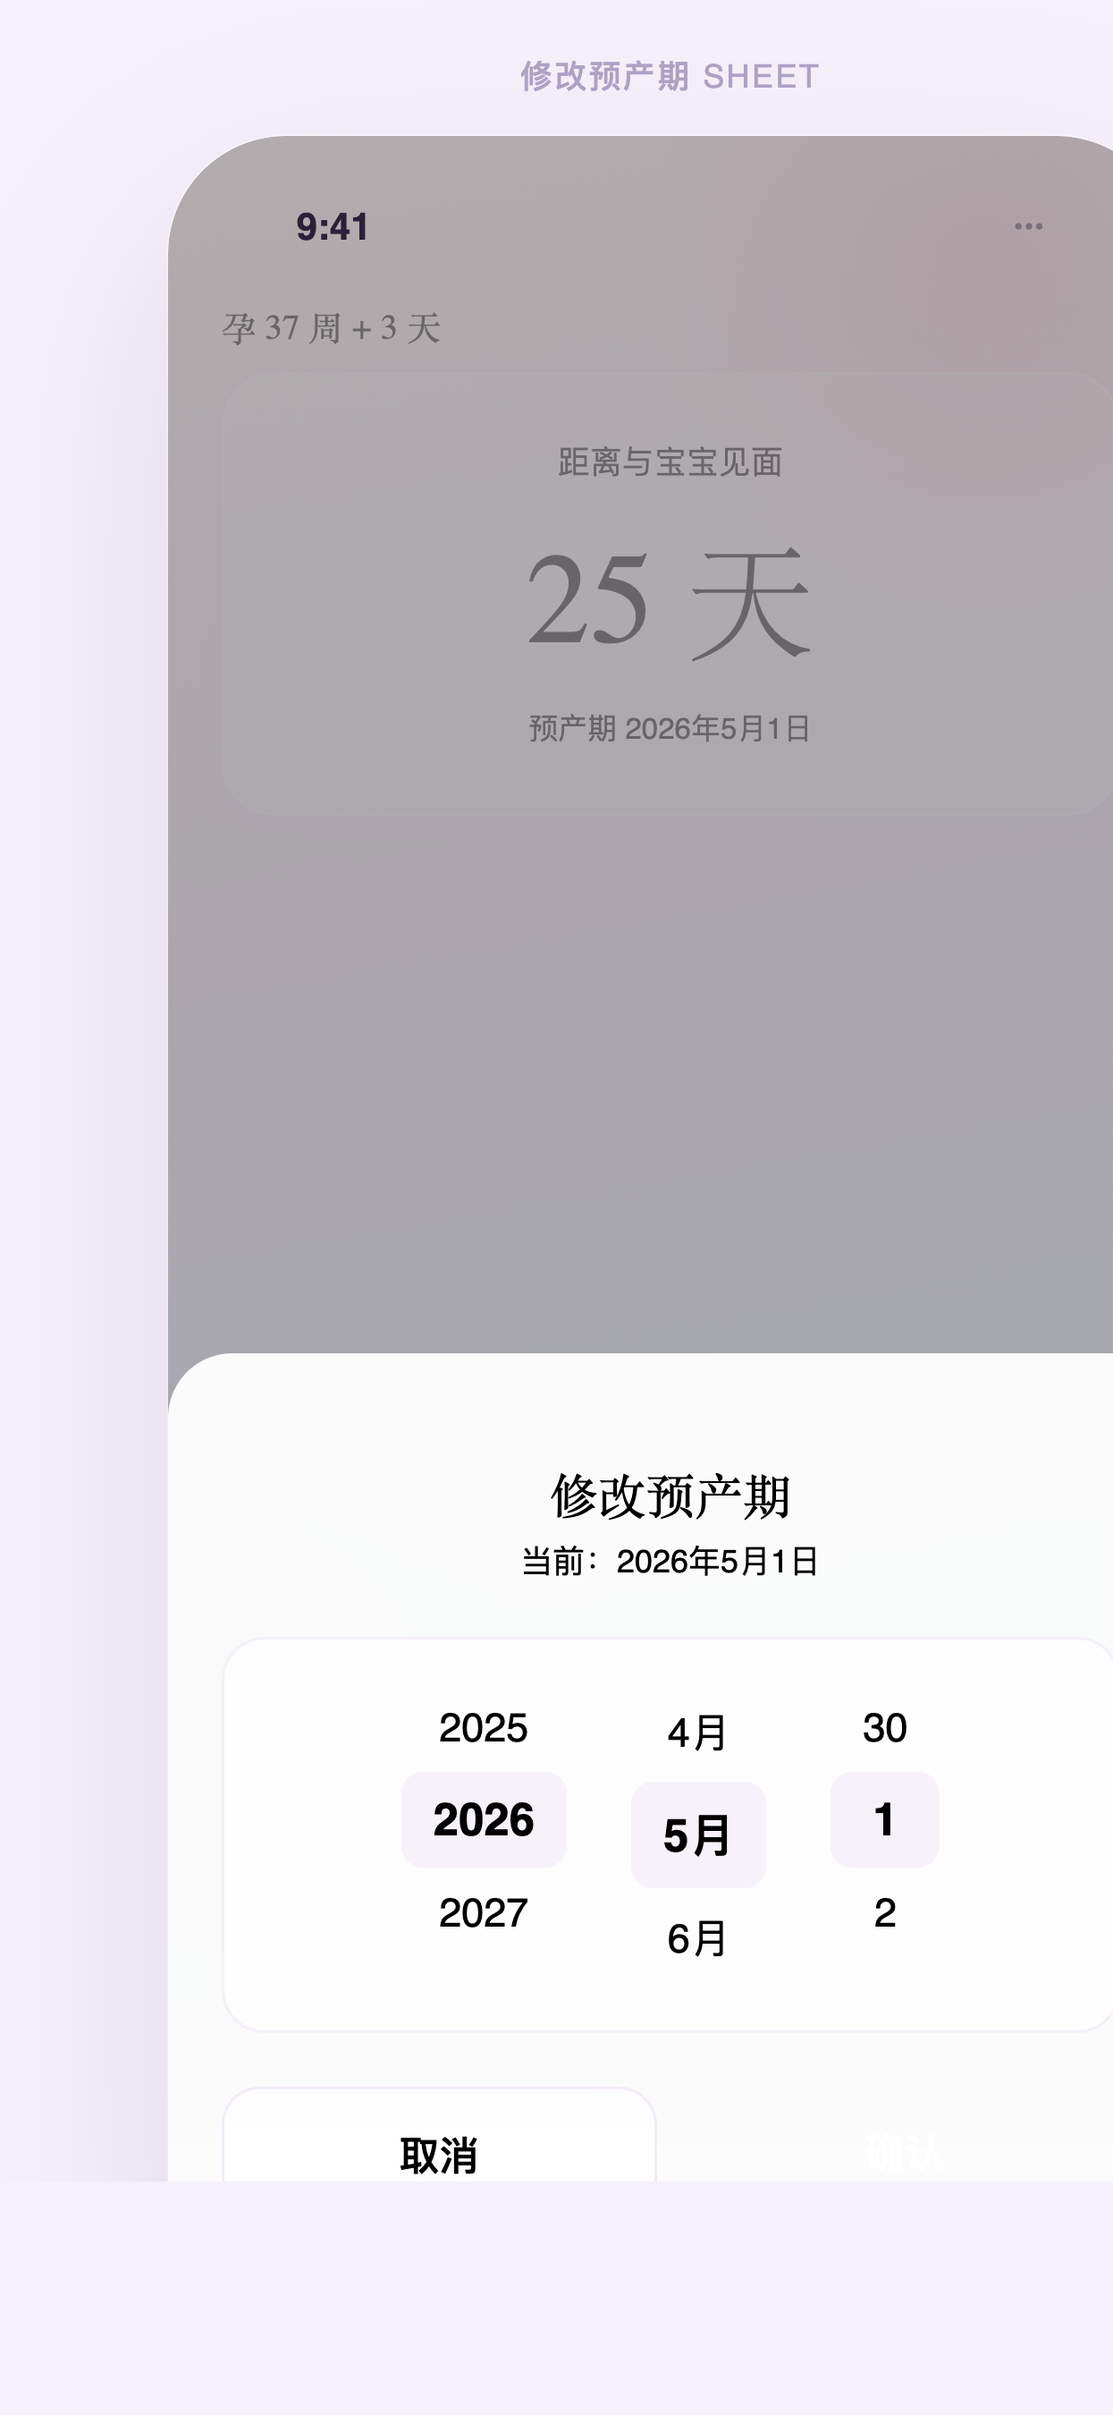
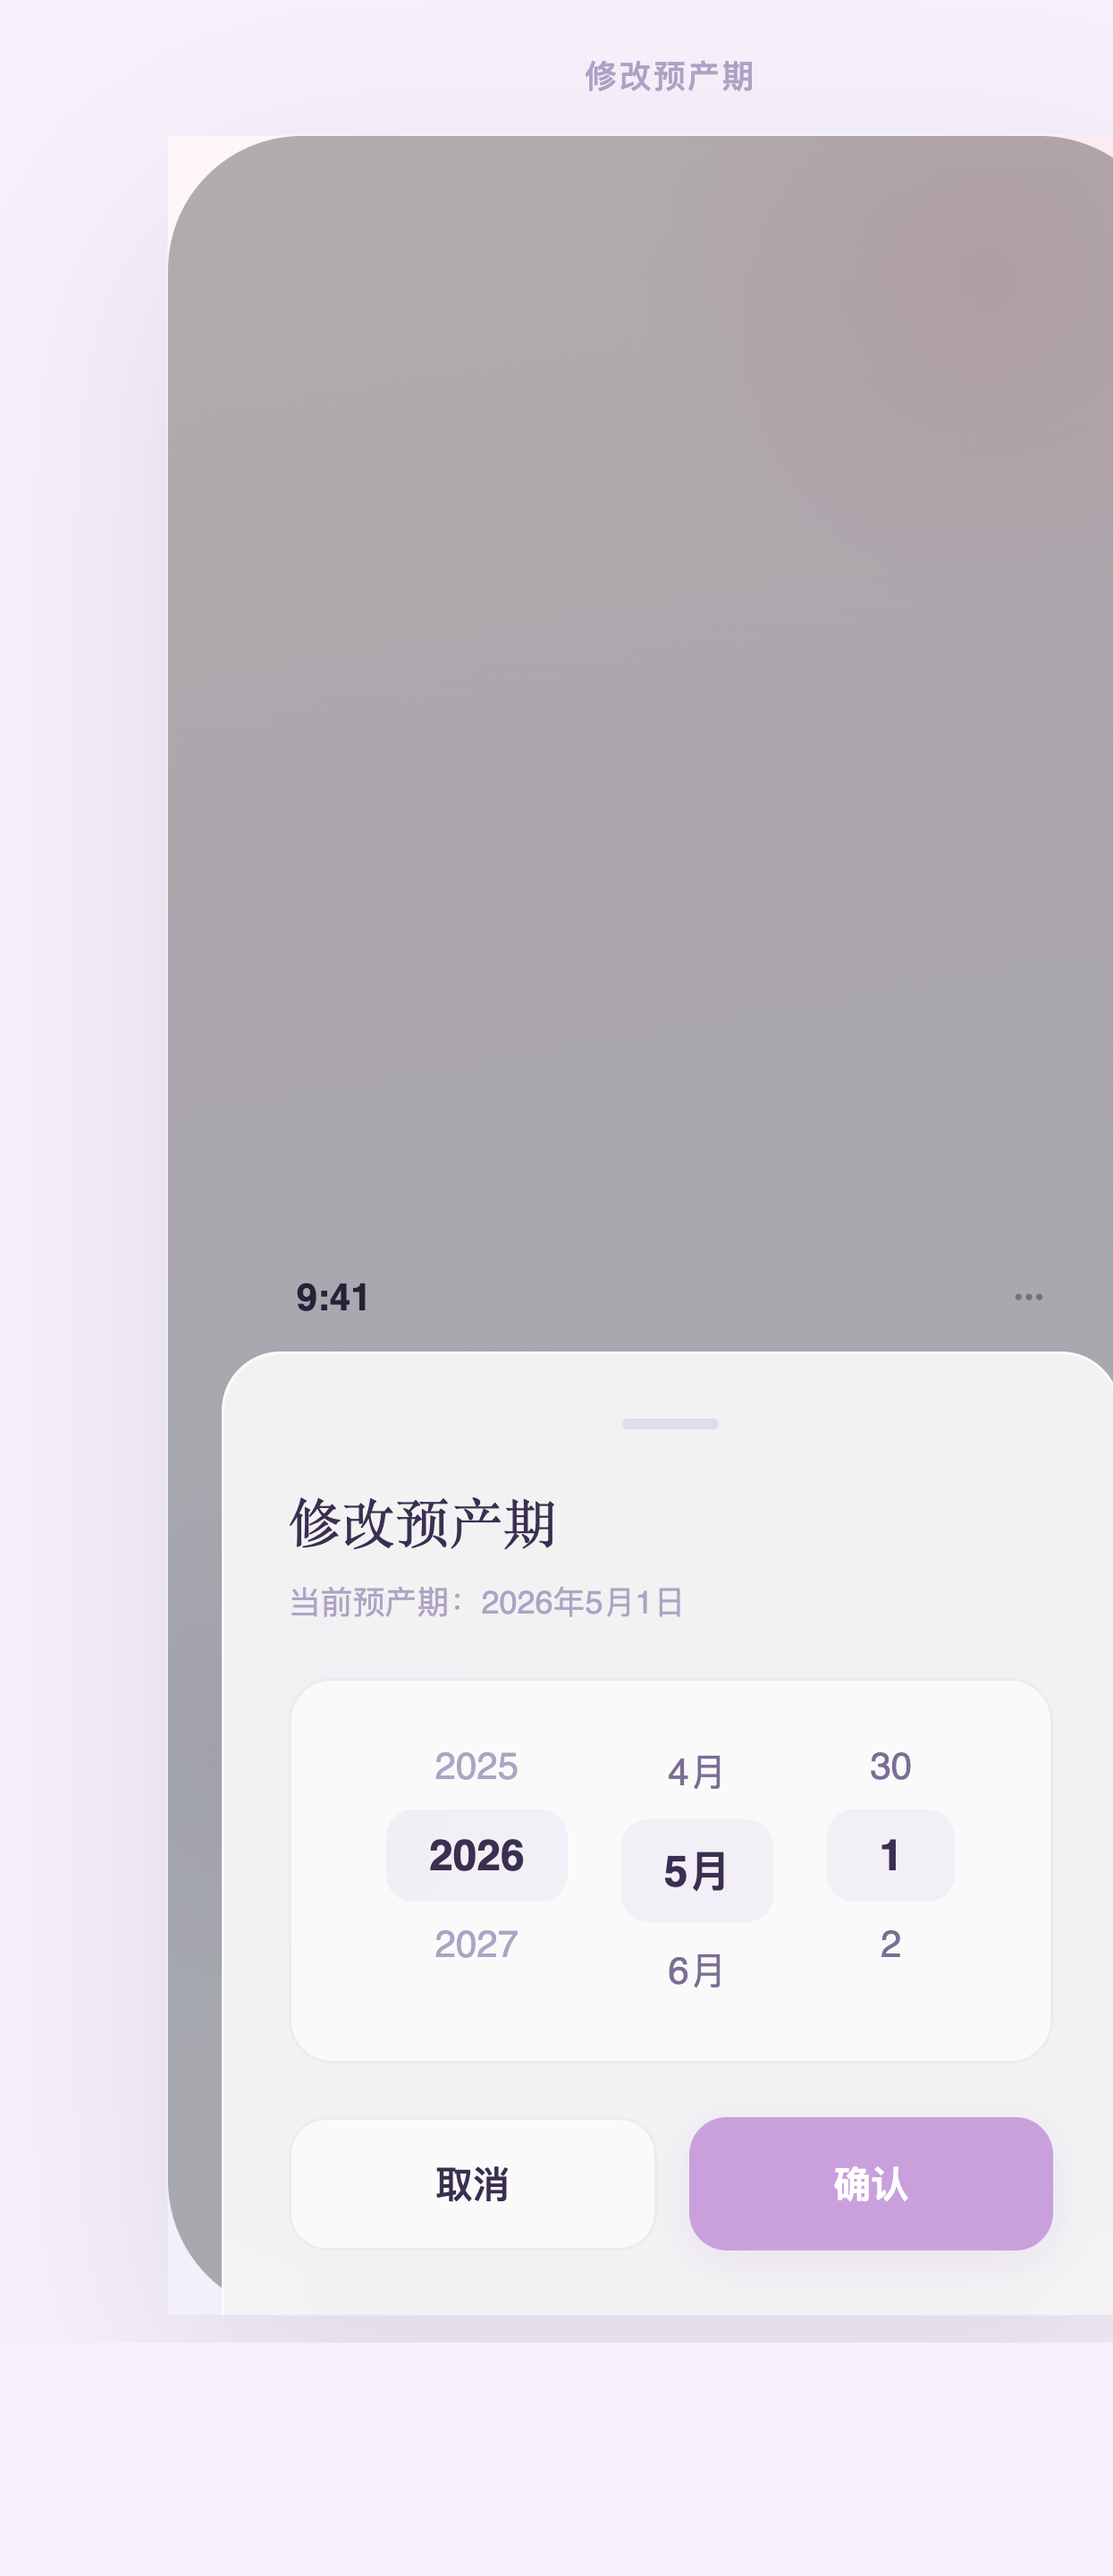
fix: 修改预产期 design 统一设计语言
- 复用添加物品弹窗样式（rgba/blur/border 参数一致）
- PRD 设计参数对齐
- 截图更新

diff --git a/design-v2/design.html b/design-v2/design.html
@@ -871,49 +871,44 @@
   </div>
 </div>
 
-
-<!-- EDIT-DUEDATE 修改预产期 Sheet -->
+<!-- EDIT-DUEDATE 修改预产期 -->
 <div class="wrap">
-  <div class="label">修改预产期 Sheet</div>
+  <div class="label">修改预产期</div>
   <div class="phone">
-    <div class="home" style="overflow:hidden;">
+    <div class="home" style="justify-content:flex-end;">
       <div class="sb" style="color:var(--text-dark);"><span>9:41</span><span style="opacity:0.4;">···</span></div>
-      <div style="opacity:0.4;margin-top:8px;">
-        <div style="font-family:'Noto Serif SC',serif;font-size:13px;color:var(--n500);">孕 37 周 + 3 天</div>
-        <div class="tc" style="padding:24px;margin-top:8px;text-align:center;">
-          <div style="font-size:12px;color:var(--n500);">距离与宝宝见面</div>
-          <div style="font-family:'Noto Serif SC',serif;font-size:48px;font-weight:300;color:var(--n900);margin:8px 0;">25 天</div>
-          <div style="font-size:11px;color:var(--n300);">预产期 2026年5月1日</div>
-        </div>
-      </div>
-    </div>
-    <div style="position:absolute;bottom:0;left:0;right:0;top:0;background:rgba(0,0,0,0.3);border-radius:44px;"></div>
-    <div style="position:absolute;bottom:0;left:0;right:0;background:rgba(255,255,255,0.95);backdrop-filter:blur(20px);border-radius:24px 24px 0 0;padding:20px 20px 34px;">
-      <div style="width:36px;height:4px;background:var(--n300);border-radius:2px;margin:0 auto 16px;"></div>
-      <div style="font-family:'Noto Serif SC',serif;font-size:18px;color:var(--n900);text-align:center;margin-bottom:4px;">修改预产期</div>
-      <div style="font-size:12px;color:var(--n500);text-align:center;margin-bottom:20px;">当前：2026年5月1日</div>
-      <div style="background:rgba(255,255,255,0.6);border-radius:16px;padding:16px;margin-bottom:20px;border:1px solid rgba(201,160,220,0.15);">
-        <div style="display:flex;justify-content:center;gap:24px;">
-          <div style="text-align:center;">
-            <div style="font-family:'Nunito',sans-serif;font-size:15px;color:var(--n300);padding:8px 12px;">2025</div>
-            <div style="font-family:'Nunito',sans-serif;font-size:17px;color:var(--n900);font-weight:600;background:rgba(201,160,220,0.12);border-radius:8px;padding:8px 12px;">2026</div>
-            <div style="font-family:'Nunito',sans-serif;font-size:15px;color:var(--n300);padding:8px 12px;">2027</div>
-          </div>
-          <div style="text-align:center;">
-            <div style="font-family:'Nunito',sans-serif;font-size:15px;color:var(--n500);padding:8px 12px;">4月</div>
-            <div style="font-family:'Nunito',sans-serif;font-size:17px;color:var(--n900);font-weight:600;background:rgba(201,160,220,0.12);border-radius:8px;padding:8px 12px;">5月</div>
-            <div style="font-family:'Nunito',sans-serif;font-size:15px;color:var(--n500);padding:8px 12px;">6月</div>
-          </div>
-          <div style="text-align:center;">
-            <div style="font-family:'Nunito',sans-serif;font-size:15px;color:var(--n500);padding:8px 12px;">30</div>
-            <div style="font-family:'Nunito',sans-serif;font-size:17px;color:var(--n900);font-weight:600;background:rgba(201,160,220,0.12);border-radius:8px;padding:8px 12px;">1</div>
-            <div style="font-family:'Nunito',sans-serif;font-size:15px;color:var(--n500);padding:8px 12px;">2</div>
+      <!-- 半透明遮罩 -->
+      <div style="position:absolute;inset:0;background:rgba(0,0,0,0.3);border-radius:50px;z-index:1;"></div>
+      <!-- 底部弹窗卡片 -->
+      <div style="position:relative;z-index:2;background:rgba(255,255,255,0.85);backdrop-filter:blur(24px);border-radius:22px 22px 0 0;padding:24px;border:1px solid rgba(255,255,255,0.7);border-bottom:none;">
+        <div style="width:36px;height:4px;border-radius:2px;background:rgba(183,168,214,0.3);margin:0 auto 20px;"></div>
+        <div style="font-family:'Noto Serif SC',serif;font-size:20px;color:var(--text-dark);font-weight:400;margin-bottom:8px;">修改预产期</div>
+        <div style="font-size:12px;color:var(--text-light);margin-bottom:20px;">当前预产期：2026年5月1日</div>
+        <!-- 日期选择器 -->
+        <div style="background:rgba(255,255,255,0.6);border:1px solid rgba(183,168,214,0.2);border-radius:16px;padding:16px;margin-bottom:20px;">
+          <div style="display:flex;justify-content:center;gap:20px;">
+            <div style="text-align:center;">
+              <div style="font-size:14px;color:var(--text-light);padding:8px 16px;">2025</div>
+              <div style="font-size:16px;color:var(--text-dark);font-weight:600;padding:8px 16px;background:rgba(183,168,214,0.12);border-radius:10px;">2026</div>
+              <div style="font-size:14px;color:var(--text-light);padding:8px 16px;">2027</div>
+            </div>
+            <div style="text-align:center;">
+              <div style="font-size:14px;color:var(--text-mid);padding:8px 16px;">4月</div>
+              <div style="font-size:16px;color:var(--text-dark);font-weight:600;padding:8px 16px;background:rgba(183,168,214,0.12);border-radius:10px;">5月</div>
+              <div style="font-size:14px;color:var(--text-mid);padding:8px 16px;">6月</div>
+            </div>
+            <div style="text-align:center;">
+              <div style="font-size:14px;color:var(--text-mid);padding:8px 16px;">30</div>
+              <div style="font-size:16px;color:var(--text-dark);font-weight:600;padding:8px 16px;background:rgba(183,168,214,0.12);border-radius:10px;">1</div>
+              <div style="font-size:14px;color:var(--text-mid);padding:8px 16px;">2</div>
+            </div>
           </div>
         </div>
-      </div>
-      <div style="display:flex;gap:12px;">
-        <div style="flex:1;padding:14px;border-radius:14px;background:rgba(255,255,255,0.6);border:1px solid rgba(201,160,220,0.2);color:var(--n500);font-size:15px;font-weight:500;text-align:center;font-family:'Nunito',sans-serif;">取消</div>
-        <div style="flex:1;padding:14px;border-radius:14px;background:linear-gradient(135deg,var(--primary400),var(--primary600));color:white;font-size:15px;font-weight:600;text-align:center;font-family:'Nunito',sans-serif;">确认</div>
+        <!-- 按钮 -->
+        <div style="display:flex;gap:12px;">
+          <button style="flex:1;padding:14px;border-radius:14px;background:rgba(255,255,255,0.6);border:1px solid rgba(183,168,214,0.2);font-size:14px;font-weight:500;color:var(--text-dark);cursor:pointer;">取消</button>
+          <button style="flex:1;padding:14px;border-radius:14px;background:var(--accent);color:white;font-size:14px;font-weight:600;border:none;box-shadow:0 4px 16px rgba(196,160,220,0.2);cursor:pointer;">确认</button>
+        </div>
       </div>
     </div>
   </div>

diff --git a/BlossomUITests/BlossomUITests.swift b/BlossomUITests/BlossomUITests.swift
@@ -797,4 +797,160 @@ final class BlossomUITests: XCTestCase {
 
         snap("duedate-today-05-zero-countdown")
     }
+
+    // MARK: - Lamaze Practice Mode Screenshot
+    func testLamazePracticeScreenshot() throws {
+        app.launchArguments = ["-skip-onboarding"]
+        app.launch()
+        
+        let tasksTab = app.buttons["任务"]
+        XCTAssertTrue(tasksTab.waitForExistence(timeout: 10))
+        tasksTab.tap()
+        sleep(1)
+        
+        let lamazeText = app.staticTexts["拉玛泽呼吸练习"]
+        XCTAssertTrue(lamazeText.waitForExistence(timeout: 5))
+        lamazeText.tap()
+        sleep(1)
+        
+        let practiceMode = app.staticTexts["跟练模式"]
+        if practiceMode.waitForExistence(timeout: 3) {
+            practiceMode.tap()
+            sleep(1)
+        }
+        
+        let firstStage = app.staticTexts.matching(NSPredicate(format: "label CONTAINS[c] '清洁呼吸'")).firstMatch
+        if firstStage.waitForExistence(timeout: 3) {
+            firstStage.tap()
+            sleep(1)
+        }
+        
+        snap("lamaze-practice-prep")
+        
+        let startButton = app.buttons.matching(NSPredicate(format: "label CONTAINS[c] '开始练习'")).firstMatch
+        if startButton.waitForExistence(timeout: 3) {
+            startButton.tap()
+            sleep(2)
+        }
+        
+        snap("lamaze-practice-timer")
+    }
+
+
+    // MARK: - Hospital Bag Add Item Screenshot
+    func testBagAddItemScreenshot() throws {
+        app.launchArguments = ["-skip-onboarding"]
+        app.launch()
+        
+        let bagTab = app.buttons["待产包"]
+        XCTAssertTrue(bagTab.waitForExistence(timeout: 10))
+        bagTab.tap()
+        sleep(2)
+        
+        // Find the + button by its image
+        let plusButton = app.buttons.matching(NSPredicate(format: "label CONTAINS[c] 'plus' OR label CONTAINS[c] '+'")).firstMatch
+        if !plusButton.waitForExistence(timeout: 3) {
+            // Try finding by image
+            let allButtons = app.buttons.allElementsBoundByIndex
+            for button in allButtons {
+                if button.label.contains("plus") || button.label.contains("+") || button.label.contains("Add") {
+                    button.tap()
+                    break
+                }
+            }
+            // If still not found, try tapping by coordinate (top right area)
+            if !app.staticTexts["添加物品"].waitForExistence(timeout: 2) {
+                let topRight = app.coordinate(withNormalizedOffset: CGVector(dx: 0.9, dy: 0.12))
+                topRight.tap()
+            }
+        } else {
+            plusButton.tap()
+        }
+        sleep(2)
+        
+        snap("bag-add-item-sheet")
+    }
+
+
+    // MARK: - Lamaze Completion Screenshot
+    func testLamazeCompletionScreenshot() throws {
+        app.launchArguments = ["-skip-onboarding"]
+        app.launch()
+        
+        let tasksTab = app.buttons["任务"]
+        XCTAssertTrue(tasksTab.waitForExistence(timeout: 10))
+        tasksTab.tap()
+        sleep(1)
+        
+        let lamazeText = app.staticTexts["拉玛泽呼吸练习"]
+        XCTAssertTrue(lamazeText.waitForExistence(timeout: 5))
+        lamazeText.tap()
+        sleep(1)
+        
+        // Tap 跟练模式
+        let practiceMode = app.staticTexts["跟练模式"]
+        if practiceMode.waitForExistence(timeout: 3) {
+            practiceMode.tap()
+            sleep(1)
+        }
+        
+        // Tap first stage
+        let firstStage = app.staticTexts.matching(NSPredicate(format: "label CONTAINS[c] '清洁呼吸'")).firstMatch
+        if firstStage.waitForExistence(timeout: 3) {
+            firstStage.tap()
+            sleep(1)
+        }
+        
+        // Start practice
+        let startButton = app.buttons.matching(NSPredicate(format: "label CONTAINS[c] '开始练习'")).firstMatch
+        if startButton.waitForExistence(timeout: 3) {
+            startButton.tap()
+            // Wait for the breathing cycle to complete (inhale + exhale × cycles)
+            // Stage 1: 4s inhale + 6s exhale × cycles - wait longer
+            sleep(90)
+        }
+        
+        // Check if completion view appeared
+        let completionTitle = app.staticTexts["做得真棒"]
+        if completionTitle.waitForExistence(timeout: 10) {
+            snap("lamaze-completion")
+        } else {
+            snap("lamaze-completion-not-found")
+        }
+    }
+
+
+    // MARK: - Kegel Timer Color Verification
+    func testKegelTimerColorVerify() throws {
+        app.launchArguments = ["-skip-onboarding"]
+        app.launch()
+        
+        let tasksTab = app.buttons["任务"]
+        XCTAssertTrue(tasksTab.waitForExistence(timeout: 10))
+        tasksTab.tap()
+        sleep(1)
+        
+        let kegelText = app.staticTexts["凯格尔运动"]
+        XCTAssertTrue(kegelText.waitForExistence(timeout: 5))
+        kegelText.tap()
+        sleep(1)
+        
+        // Snap prep page first
+        snap("kegel-prep-backbtn")
+        
+        // Tap 开始练习
+        let startButton = app.buttons.matching(NSPredicate(format: "label CONTAINS[c] '开始练习'")).firstMatch
+        if startButton.waitForExistence(timeout: 3) {
+            startButton.tap()
+            sleep(2)
+        }
+        
+        // Now on timer page
+        snap("kegel-timer-color-verify")
+        
+        // Wait for relax phase
+        sleep(6)
+        snap("kegel-relax-color-verify")
+    }
+
 }

diff --git a/PRD-EDIT-DUEDATE.md b/PRD-EDIT-DUEDATE.md
@@ -39,25 +39,30 @@
 
 ### 5.1 布局（从上到下）
 
+复用"添加物品弹窗"（⑥-b）的设计语言：
+
 | 元素 | 规格 |
 |------|------|
-| 拖拽手柄 | 36x4px，圆角 2px，颜色 n300，居中 |
-| 标题 | "修改预产期"，Noto Serif SC 18px，颜色 n900，居中 |
-| 当前日期 | "当前：2026年5月1日"，Nunito 12px，颜色 n500，居中 |
-| 日期选择器 | 年/月/日 三列 wheel picker，毛玻璃卡片容器 |
+| 拖拽手柄 | 36x4px，圆角 2px，rgba(183,168,214,0.3)，居中 |
+| 标题 | "修改预产期"，Noto Serif SC 20px，font-weight 400，color text-dark |
+| 当前日期 | "当前预产期：2026年5月1日"，12px，color text-light |
+| 日期选择器 | 年/月/日 三列，容器 rgba(255,255,255,0.6) + 1px border rgba(183,168,214,0.2)，border-radius 16px |
+| 选中项 | 16px，font-weight 600，color text-dark，背景 rgba(183,168,214,0.12)，border-radius 10px |
+| 未选中项 | 14px，color text-mid 或 text-light |
 | 按钮区 | 左"取消" + 右"确认"，flex 等宽，gap 12px |
 
-### 5.2 按钮样式
+### 5.2 按钮样式（与结束确认弹窗一致）
 
 | 按钮 | 背景 | 文字 |
 |------|------|------|
-| 取消 | rgba(255,255,255,0.6) + 1px border rgba(201,160,220,0.2) | n500, 15px, weight 500 |
-| 确认 | linear-gradient(135deg, primary400, primary600) | white, 15px, weight 600 |
+| 取消 | rgba(255,255,255,0.6) + 1px border rgba(183,168,214,0.2) | text-dark, 14px, weight 500 |
+| 确认 | var(--accent) + box-shadow 0 4px 16px rgba(196,160,220,0.2) | white, 14px, weight 600 |
 
-### 5.3 Sheet 背景
-- 背景：rgba(255,255,255,0.95) + backdrop-filter: blur(20px)
-- 圆角：24px 24px 0 0
-- 遮罩层：rgba(0,0,0,0.3) 覆盖整个首页
+### 5.3 Sheet 背景（与添加物品弹窗一致）
+- 背景：rgba(255,255,255,0.85) + backdrop-filter: blur(24px)
+- 圆角：22px 22px 0 0
+- 边框：1px solid rgba(255,255,255,0.7)
+- 遮罩层：rgba(0,0,0,0.3) + border-radius 50px
 
 ## 6. Design 截图
 
